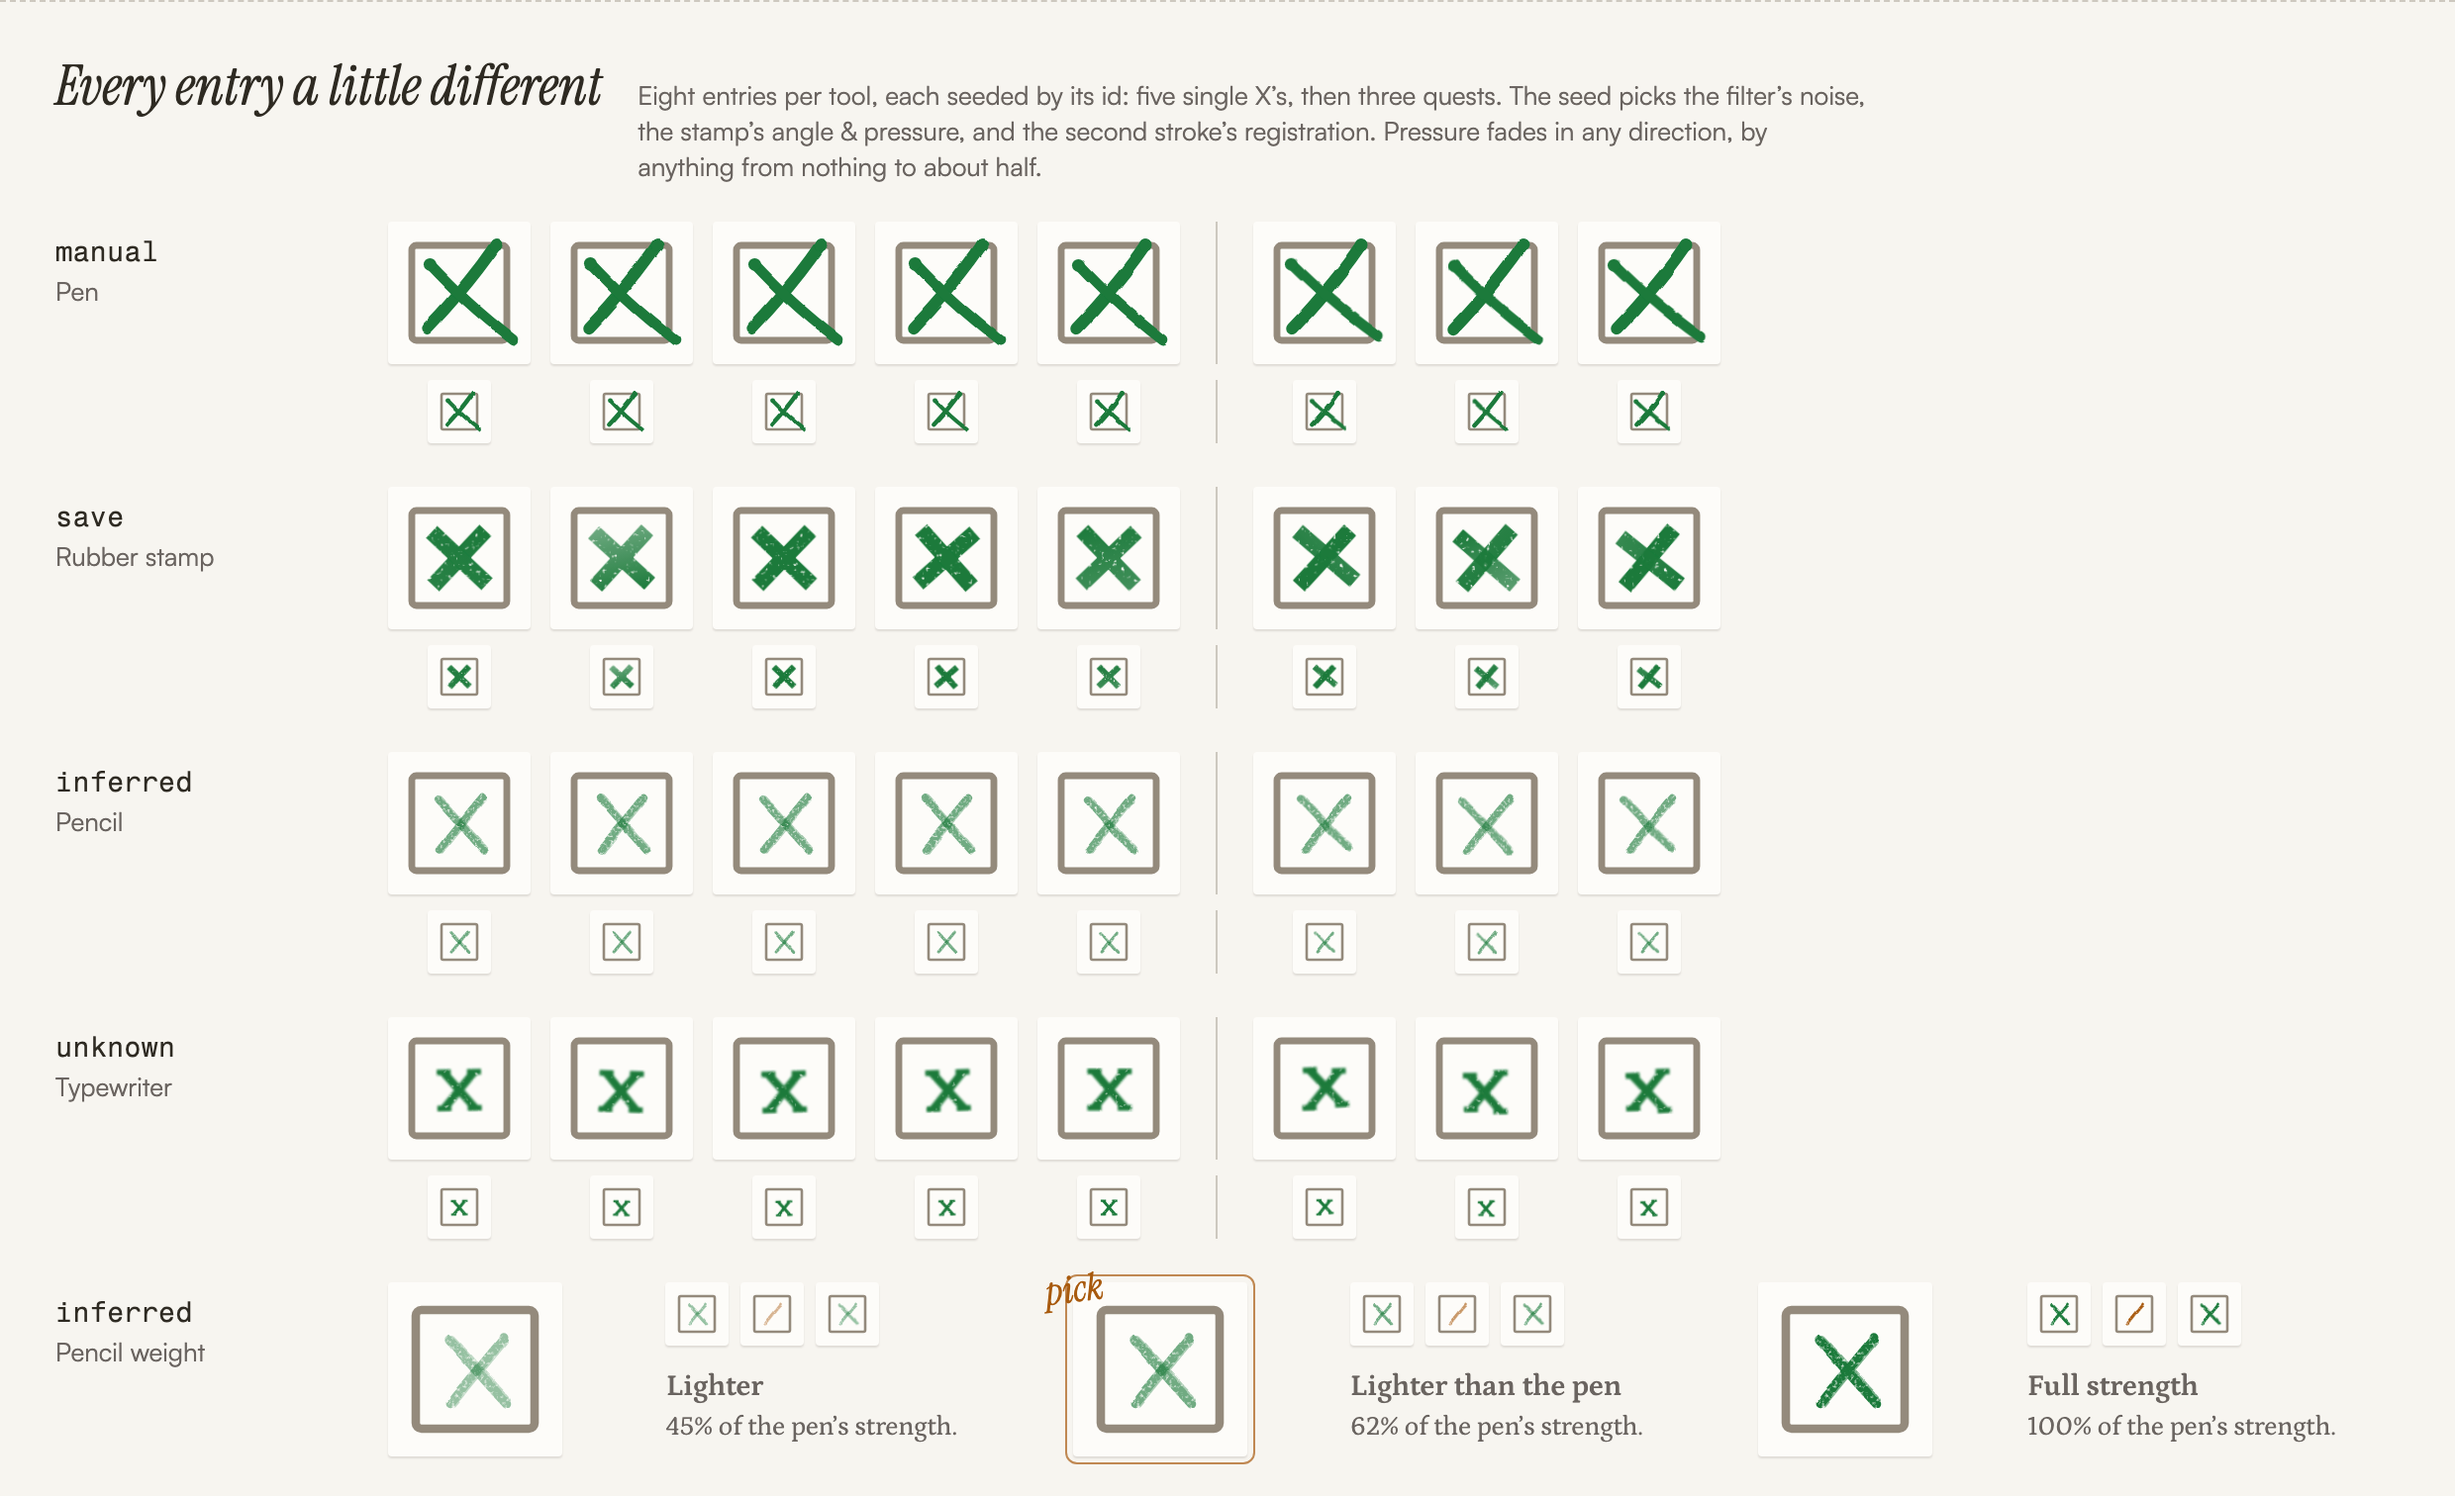
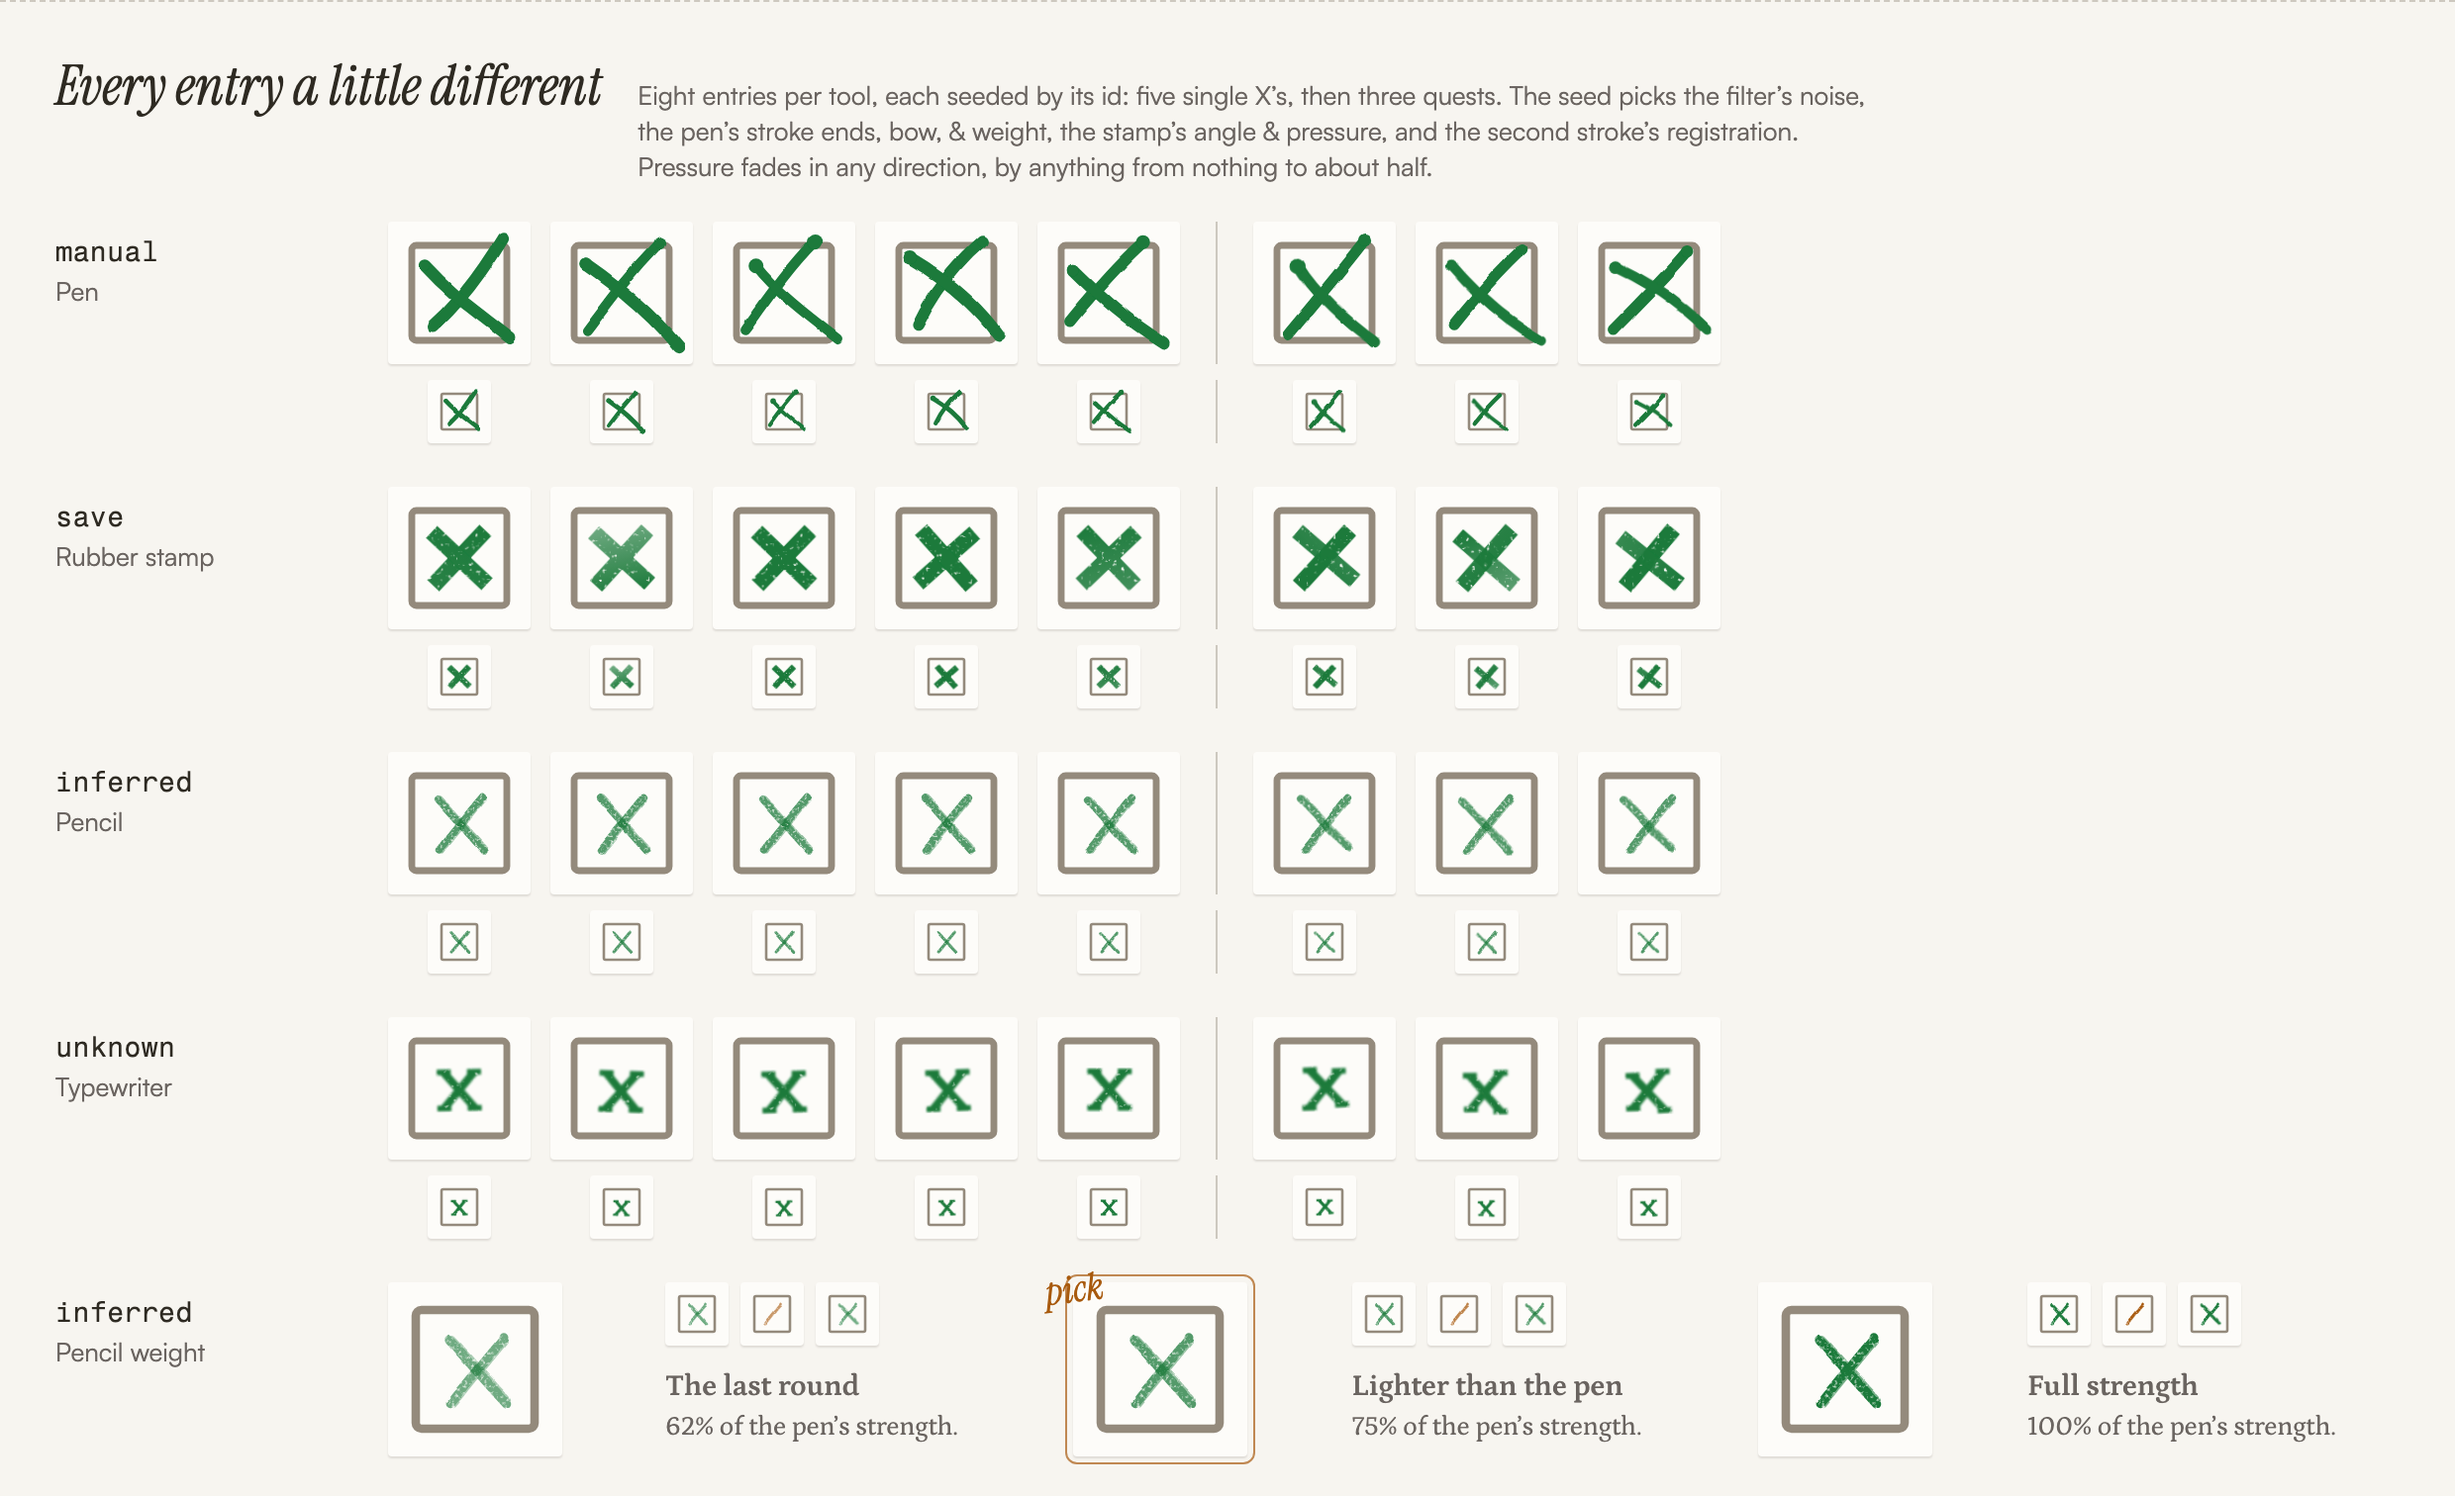
Vary each inked stroke per entry & darken the pencil, per review
Each pen stroke's ends, bow, weight, & blot now come from the entry's
seed, so hand-drawn X's differ visibly. The colored pencil draws at 75%
of the pen's strength.

diff --git a/docs/design/provenance-marks/marks.html b/docs/design/provenance-marks/marks.html
@@ -583,8 +583,9 @@
         <h2>Every entry a little different</h2>
         <p class="note">
           Eight entries per tool, each seeded by its id: five single X’s, then three quests. The
-          seed picks the filter’s noise, the stamp’s angle & pressure, and the second stroke’s
-          registration. Pressure fades in any direction, by anything from nothing to about half.
+          seed picks the filter’s noise, the pen’s stroke ends, bow, & weight, the stamp’s angle &
+          pressure, and the second stroke’s registration. Pressure fades in any direction, by
+          anything from nothing to about half.
         </p>
       </div>
       <div class="variants" id="variants"></div>
@@ -707,17 +708,37 @@
       const misregister = (r) =>
         `translate(${between(r, -0.9, 0.9).toFixed(2)} ${between(r, -0.7, 0.7).toFixed(2)}) rotate(${between(r, -3, 3).toFixed(1)} 14 14)`;
 
-      // Pen: today's X, loosened, with a nib blot where each stroke lands. It overruns the box.
+      // Pen: today's X, loosened, with a nib blot where each stroke lands. Each stroke's ends,
+      // bow, & weight are drawn fresh per entry, so the overrun varies and some ends stop short.
       const pen = (r) => {
         const f = filter("pen", pickSeed(r));
         const later = misregister(r);
-        const stroke = (c, d, blot, w, at = "") =>
+        const hand = ([sx, sy], [ex, ey]) => {
+          const x0 = sx + between(r, -1.6, 1.6);
+          const y0 = sy + between(r, -1.6, 1.6);
+          const x1 = ex + between(r, -1.8, 1.8);
+          const y1 = ey + between(r, -1.8, 1.8);
+          const len = Math.hypot(x1 - x0, y1 - y0);
+          const [nx, ny] = [-(y1 - y0) / len, (x1 - x0) / len];
+          const bow = between(r, -1.8, 1.8);
+          const bow2 = bow * between(r, 0.3, 1.3);
+          const at = (t, b) => [x0 + (x1 - x0) * t + nx * b, y0 + (y1 - y0) * t + ny * b];
+          const [c1, c2] = [at(between(r, 0.25, 0.4), bow), at(between(r, 0.6, 0.75), bow2)];
+          const n = (v) => v.toFixed(1);
+          return {
+            d: `M${n(x0)} ${n(y0)} C${n(c1[0])} ${n(c1[1])} ${n(c2[0])} ${n(c2[1])} ${n(x1)} ${n(y1)}`,
+            blot: [x0, y0, between(r, 1.1, 1.7)],
+            width: between(r, 2.1, 2.8).toFixed(2),
+          };
+        };
+        const first = hand([21.9, 3.1], [6.6, 21.7]);
+        const second = hand([7.4, 7.6], [25.6, 24.1]);
+        const stroke = (c, { d, blot, width }, at = "") =>
           `<g filter="${f}" transform="${at}" fill="none" stroke="${c}" stroke-linecap="round">
-            <path d="${d}" stroke-width="${w}"/><circle cx="${blot[0]}" cy="${blot[1]}" r="1.4" fill="${c}" stroke="none"/>
+            <path d="${d}" stroke-width="${width}"/><circle cx="${blot[0]}" cy="${blot[1]}" r="${blot[2]}" fill="${c}" stroke="none"/>
           </g>`;
-        const slash = (c) => stroke(c, "M21.9 3.1 C17.6 9.4 12.8 15.2 6.6 21.7", [21.9, 3.2], 2.6);
-        const cross = (c, at) =>
-          stroke(c, "M7.4 7.6 C11.2 11.6 16.4 17 25.6 24.1", [7.3, 7.5], 2.3, at);
+        const slash = (c) => stroke(c, first);
+        const cross = (c, at) => stroke(c, second, at);
         return {
           slash,
           cross: (c) => cross(c, later),
@@ -748,7 +769,7 @@
 
       // Pencil: two light passes per stroke, grainy, inside the box. Lighter than the pen, like a
       // pencil next to a pen in a sketching app, but still clearly green.
-      const pencil = (r, weight = 0.62) => {
+      const pencil = (r, weight = 0.75) => {
         const f = filter("pencil", pickSeed(r));
         const later = misregister(r);
         const stroke = (c, d, d2, at = "") =>
@@ -851,8 +872,8 @@
         });
 
       const weights = [
-        ["0.45", "Lighter"],
-        ["0.62", "Pick"],
+        ["0.62", "The last round"],
+        ["0.75", "Pick"],
         ["1", "Full strength"],
       ];
       document.querySelector("#variants").innerHTML =

diff --git a/docs/design/provenance-marks/README.md b/docs/design/provenance-marks/README.md
@@ -26,7 +26,7 @@ component as they are. Lint & Knip skip `docs/design/*/generator/`.
 | ---------- | ------------ | -------------------------------------------------------------------------- | ------------------------------ | --------------------------------- |
 | `manual`   | Pen          | Today’s X, loosened, with nib blots; overruns the box                      | “You checked this off by hand” | `tracker_row_provenance_manual`   |
 | `save`     | Rubber stamp | Square-ended filled bars, a few degrees off, with specks & a pressure fade | “Filled in from your save”     | `tracker_row_provenance_save`     |
-| `inferred` | Pencil       | Green colored pencil at 62% of the pen’s strength, grainy                  | “We filled this in for you”    | `tracker_row_provenance_inferred` |
+| `inferred` | Pencil       | Green colored pencil at 75% of the pen’s strength, grainy                  | “We filled this in for you”    | `tracker_row_provenance_inferred` |
 | `unknown`  | Typewriter   | A small serifed x, struck a hair off level                                 | “From your older records”      | `tracker_row_provenance_unknown`  |
 
 Every X uses `--color-tracker-checked` and every slash `--color-tracker-obtained`, so no new color
@@ -47,6 +47,8 @@ seed picks:
 
 - one of eight filter seeds for the tool’s texture (pen wobble, pencil grain, stamp specks, or
   ribbon ink),
+- each pen stroke’s ends (±1.6 units), bow, & weight, so the overrun varies and some ends stop
+  short,
 - the stamp’s angle (±5°) & its pressure fade (any direction, 0% to about 45%, none for about a
   fifth of entries),
 - the typewriter’s angle & offset,
